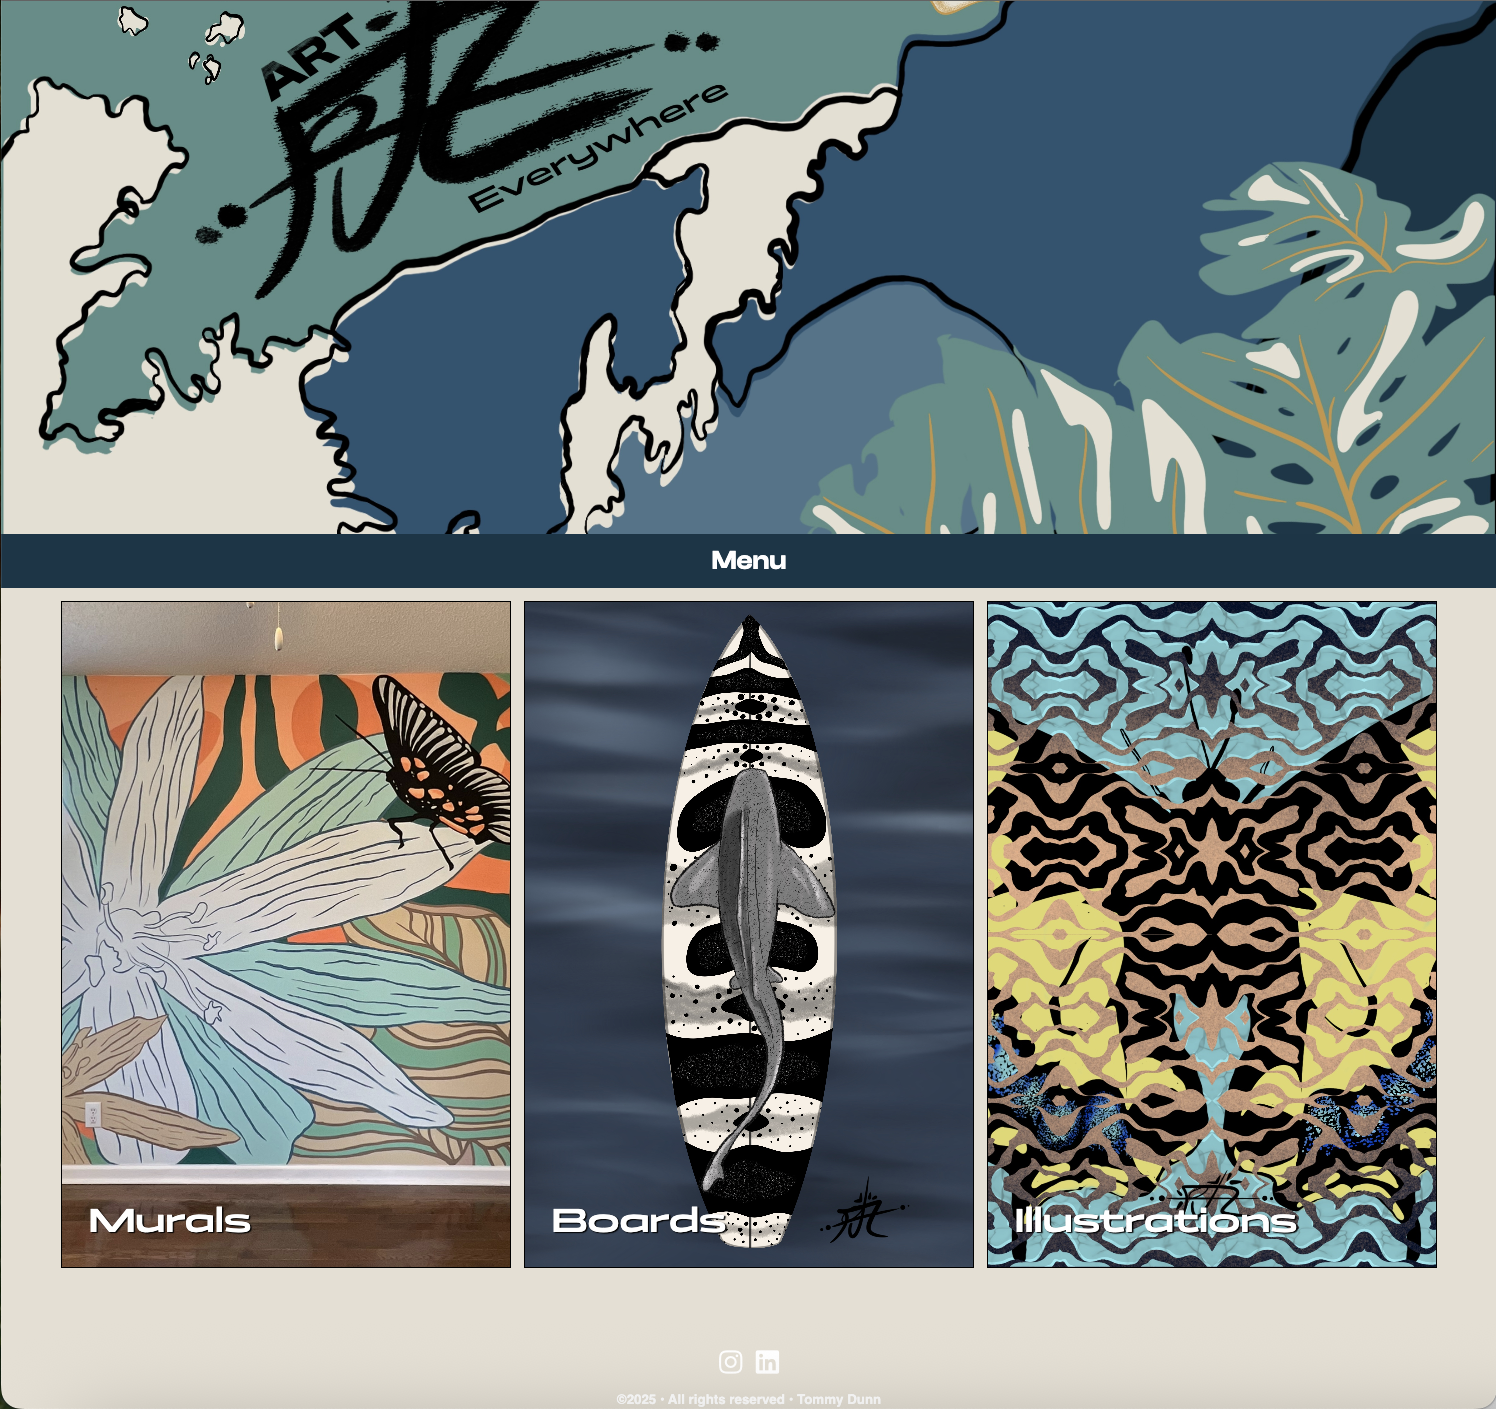
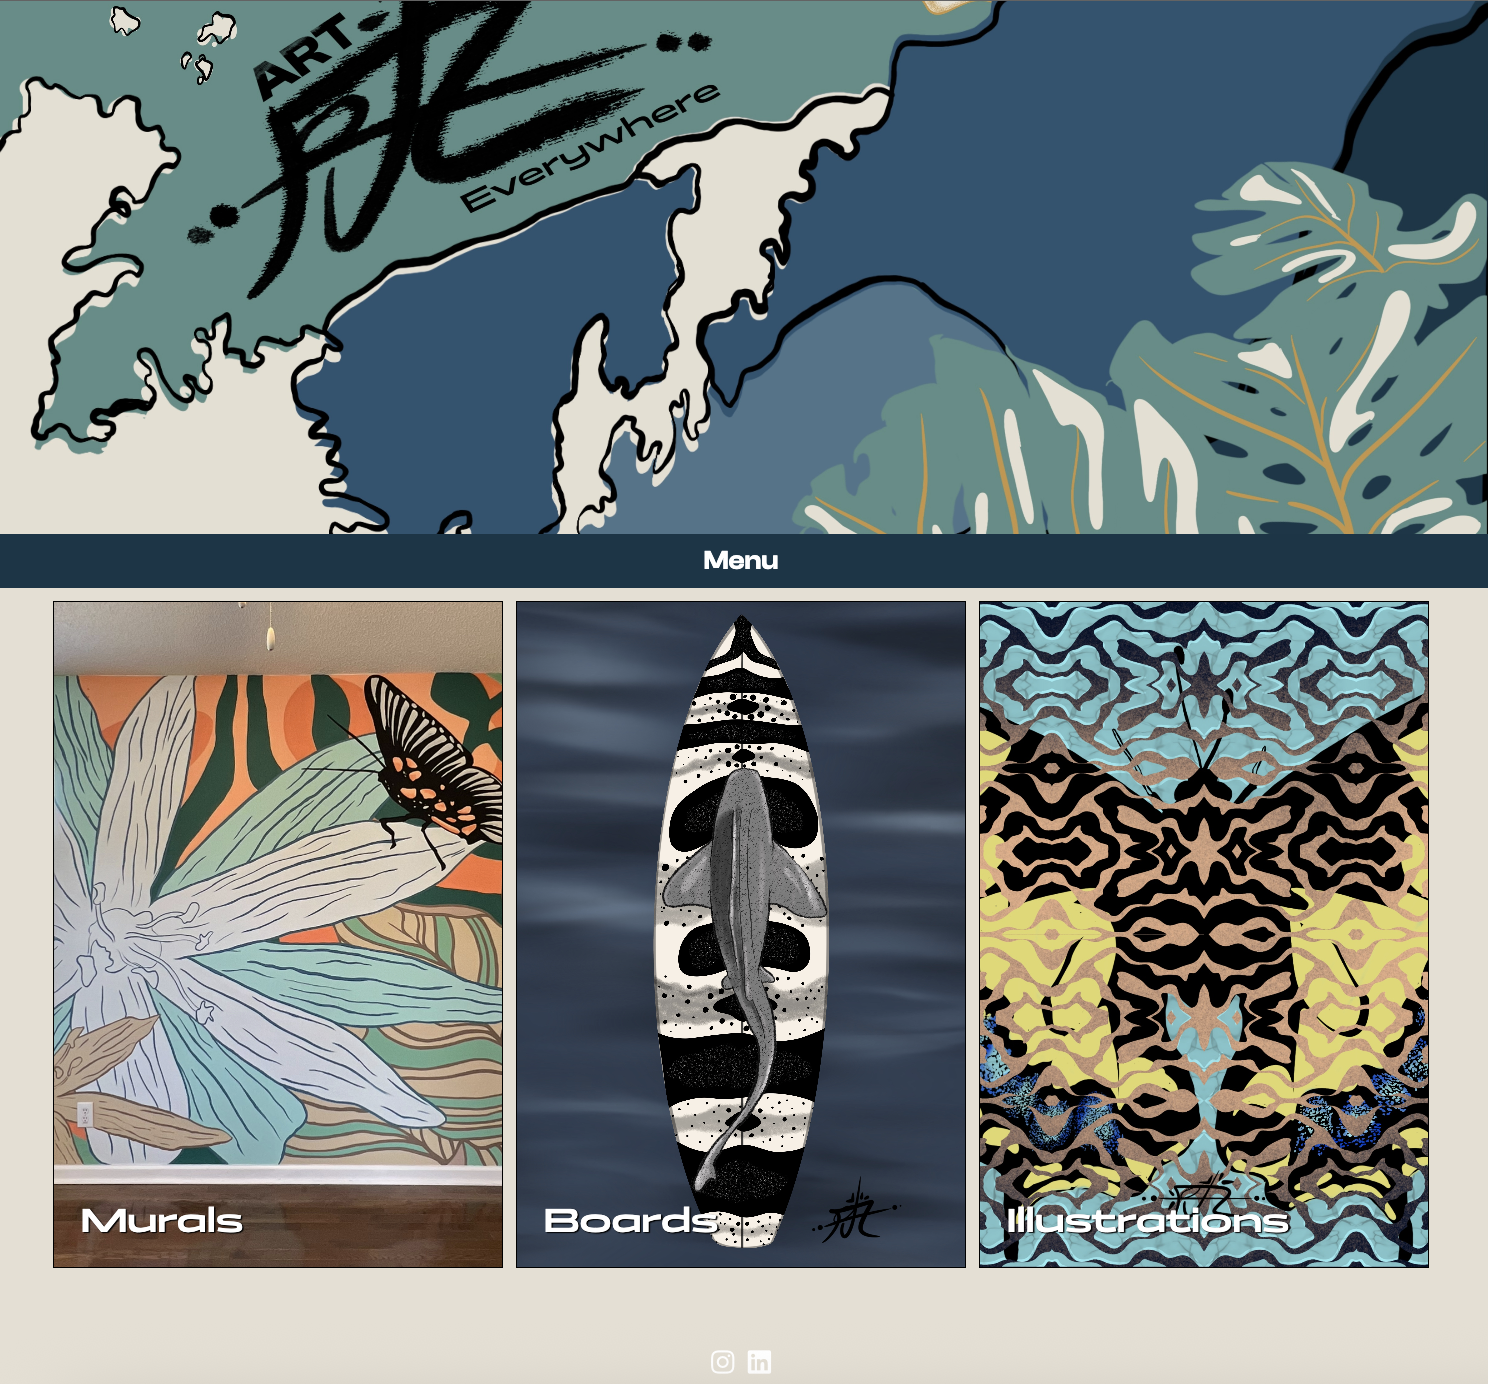
took out uneeded blurbs in project section

diff --git a/index.html b/index.html
@@ -83,46 +83,46 @@
 
 							<div class="row">
 								<div class="col-4 col-12-mobile">
-									<article class="item">
+									<!-- <article class="item">
 										<a href="#" class="image fit"><img src="images/pic02.jpg" alt="" /></a>
 										<header>
 											<h3>Ipsum Feugiat</h3>
 										</header>
-									</article>
-									<article class="item">
+									</article> -->
+									<!-- <article class="item">
 										<a href="#" class="image fit"><img src="images/pic03.jpg" alt="" /></a>
 										<header>
 											<h3>Rhoncus Semper</h3>
 										</header>
-									</article>
+									</article> -->
 								</div>
 								<div class="col-4 col-12-mobile">
 									<article class="item">
 										<a href="https://dylanferger.github.io/Tommy-Website/home.html" target="_blank" class="image fit"><img src="images/Tommy Portfolio Screenshot.png" alt="" /></a>
 										<header>
-											<h3>Magna Nullam</h3>
+											<h3>Art Portfolio Design</h3>
 										</header>
 									</article>
-									<article class="item">
+									<!-- <article class="item">
 										<a href="#" class="image fit"><img src="images/pic05.jpg" alt="" /></a>
 										<header>
 											<h3>Natoque Vitae</h3>
 										</header>
-									</article>
+									</article> -->
 								</div>
 								<div class="col-4 col-12-mobile">
-									<article class="item">
+									<!-- <article class="item">
 										<a href="#" class="image fit"><img src="images/pic06.jpg" alt="" /></a>
 										<header>
 											<h3>Dolor Penatibus</h3>
 										</header>
-									</article>
-									<article class="item">
+									</article> -->
+									<!-- <article class="item">
 										<a href="#" class="image fit"><img src="images/pic07.jpg" alt="" /></a>
 										<header>
 											<h3>Orci Convallis</h3>
 										</header>
-									</article>
+									</article> -->
 								</div>
 							</div>
 
@@ -161,13 +161,13 @@
 
 							<form method="post" action="#">
 								<div class="row">
-									<div class="col-6 col-12-mobile"><input type="text" name="name" placeholder="Name" /></div>
-									<div class="col-6 col-12-mobile"><input type="text" name="email" placeholder="Email" /></div>
+									<div class="col-6 col-12-mobile"><input class="nameInput" type="text" name="name" placeholder="Name" /></div>
+									<div class="col-6 col-12-mobile"><input class="emailInput" type="text" name="email" placeholder="Email" /></div>
 									<div class="col-12">
-										<textarea name="message" placeholder="Message"></textarea>
+										<textarea class="messageInput" name="message" placeholder="Message"></textarea>
 									</div>
 									<div class="col-12">
-										<input type="submit" value="Send Message" />
+										<input class="submitButton" type="submit" value="Send Message" />
 									</div>
 								</div>
 							</form>
